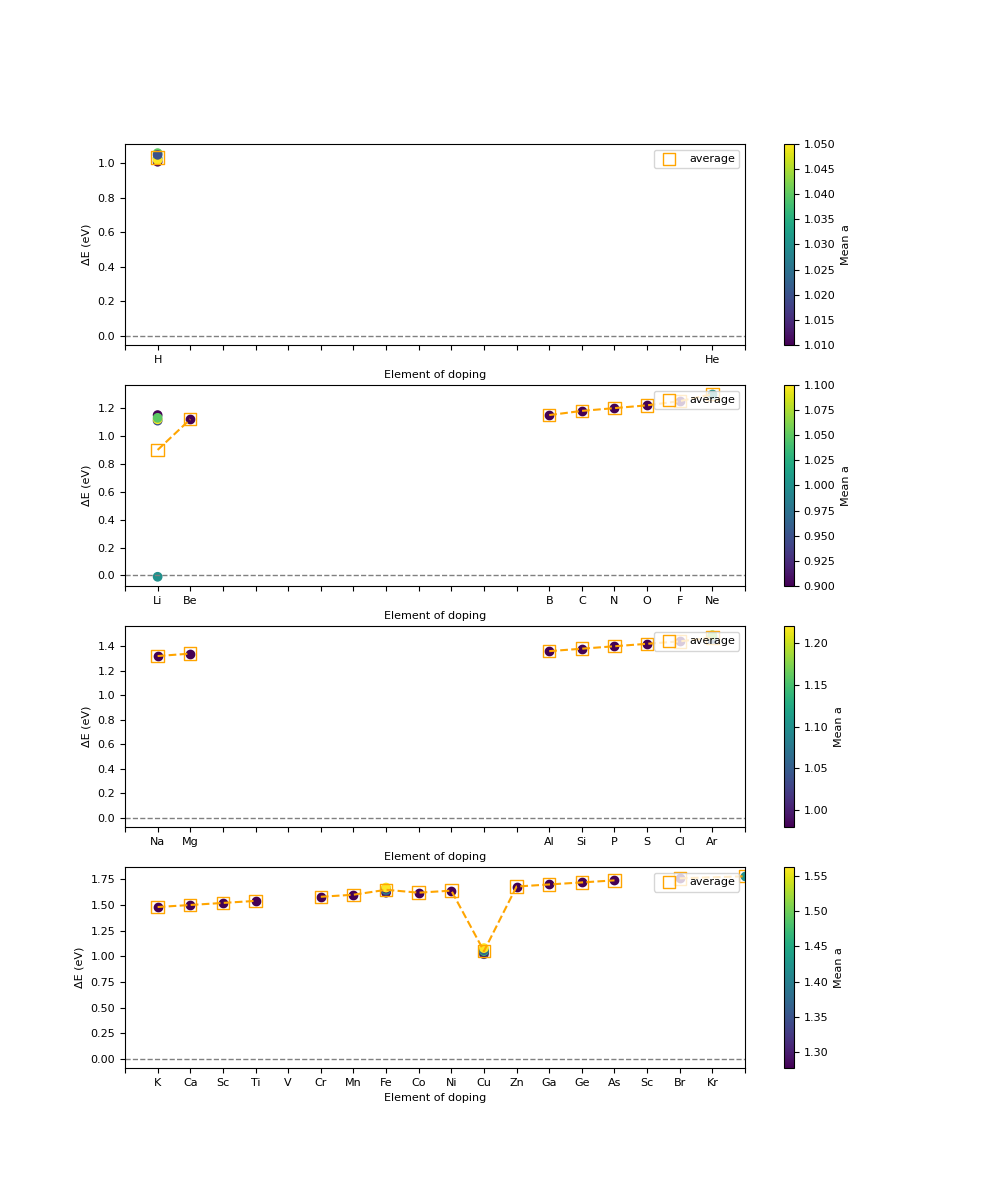
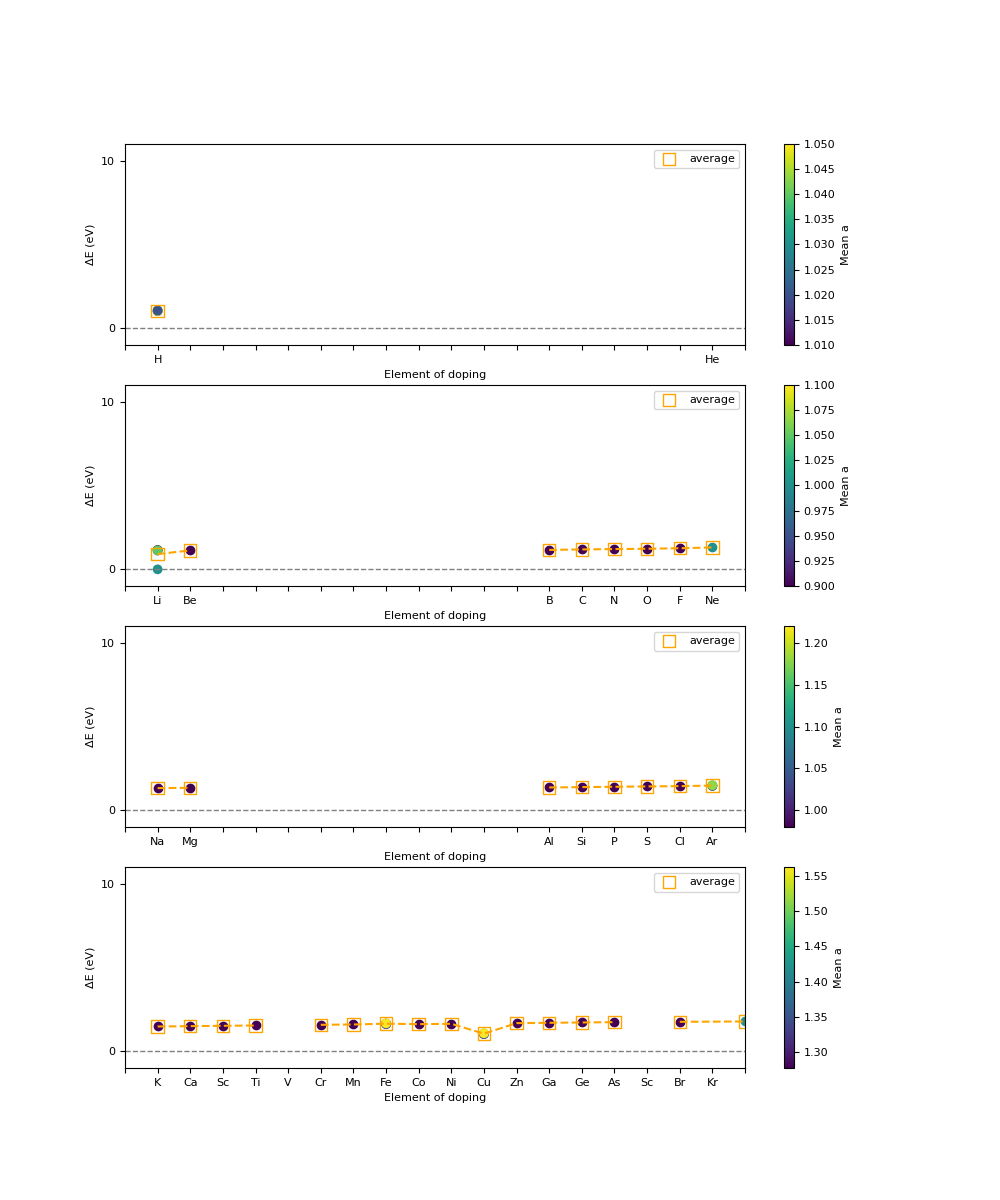
Config setting to fix y axis

diff --git a/src/mdse/visualizeDB/vis_plots.py b/src/mdse/visualizeDB/vis_plots.py
@@ -82,6 +82,7 @@ def doping_plot(plot_name, plot_data,sim_data):
     sorted_data = {}
 
     avg = plot_data.get("average")
+    fix_y = plot_data.get("fix_y")
 
     #Sort data after doping type. {"H" : {...}, "Li" : {...}}
     for sim in sim_data:
@@ -116,6 +117,10 @@ def doping_plot(plot_name, plot_data,sim_data):
     ax1.axhline(y=0, color='gray', linestyle='--', linewidth=1)
     avg_x=[]
     avg_y=[]
+
+    if fix_y:
+        ax1.set_ylim(-1,11)
+        ax1.set_yticks([0,10])
     
     sc1 = None
 
@@ -164,6 +169,11 @@ def doping_plot(plot_name, plot_data,sim_data):
     first_label = True
     avg_x = []
     avg_y = []
+    
+    if fix_y:
+        ax2.set_ylim(-1,11)
+        ax2.set_yticks([0,10])
+    
 
     elements = {"Li" : 1, "Be" : 2, "dummy": 3, "B" : 13, "C" : 14, "N" : 15, "O" : 16, "F" : 17, "Ne" : 18}
     for key,value in elements.items():
@@ -207,6 +217,11 @@ def doping_plot(plot_name, plot_data,sim_data):
     first_label = True
     avg_x = []
     avg_y = []
+    
+    if fix_y:
+        ax3.set_ylim(-1,11)
+        ax3.set_yticks([0,10])
+    
 
     elements = {"Na" : 1, "Mg" : 2, "dummy" : 3, "Al" : 13, "Si" : 14, "P" : 15, "S" : 16, "Cl" : 17, "Ar" : 18}
     for key,value in elements.items():
@@ -251,6 +266,11 @@ def doping_plot(plot_name, plot_data,sim_data):
     first_label = True
     avg_x = []
     avg_y = []
+    
+    if fix_y:
+        ax4.set_ylim(-1,11)
+        ax4.set_yticks([0,10])
+    
 
     elements = {"K" : 1, "Ca" : 2, "Sc" : 3, "Ti" : 4, "V" : 5, "Cr" : 6, "Mn" : 7, "Fe" : 8, "Co" : 9, "Ni" : 10, "Cu" : 11, "Zn" : 12, "Ga" : 13
              ,"Ge" : 14, "As" : 15, "Se" : 16, "Br" : 17, "Kr" : 19, }
